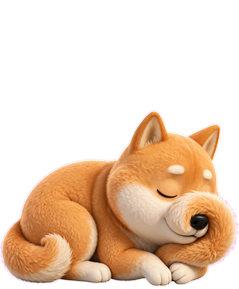
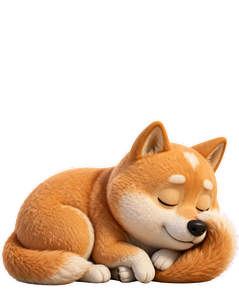
Kuma sleeps with one tail; fresh sniff and little-moments pictures
- Kuma's sleep pose had two tails (one at the rump, one over the nose): the
  sleep prompt and the style hint each asked for a curled tail. Re-drawn once
  with Muse Image from Kuma's own idle frame, asking for exactly one tail, then
  keyed and placed on the old canvas at the old width and floor line. The
  stored sleep prompt now says "exactly one tail" so a regen won't repeat it.
- docs/sniff.png: was a grey test capture of two copies of the same frame.
  Now a Terminal with the failing test highlighted and Pakkun saying
  "Found a bug!", drawn with his real bark sprite.
- docs/little-moments.png: was a dull, clipped strip. Now four tiles from
  Pakkun's real poses: hearts when petted, a line, a nap, a roll-over.
- Alt text updated on the site and README.

Changed region(s): [[0.0, 0.3737, 1.0, 0.9965]]

diff --git a/docs/index.html b/docs/index.html
@@ -316,7 +316,7 @@ footer .sleepy { width: 130px; margin: 0 auto 16px; }
       <div class="react reveal"><div class="ico">🙈</div><h3>Hides on calls</h3><p>Zoom or Meet window open? He tiptoes to the edge of the screen and waits until your call ends. A very professional pup.</p></div>
     </div>
     <div class="split" style="margin-top:64px; text-align:left">
-      <img class="shot reveal" src="sniff.png" alt="Pakkun under a terminal with a failing test, saying Found a bug!" loading="lazy">
+      <img class="shot reveal" src="sniff.png" alt="Pakkun next to a Terminal with a failing test highlighted, saying Found a bug!" loading="lazy">
       <div class="reveal">
         <h3 style="font-size:30px">"Found a bug!"</h3>
         <p class="lede" style="margin-top:12px">He reads only the front Terminal's text and the list of open windows. The one failing line is quoted to Muse Spark as data, never as instructions, and nothing is saved. API keys, tokens and secrets in it are blanked out on your Mac first. He sniffs test failures, tsc errors and rustc errors. Want to see his brain? "Show what Pakkun sees" opens a little card with his every decision.</p>
@@ -379,7 +379,7 @@ footer .sleepy { width: 130px; margin: 0 auto 16px; }
         <li><span>🖐</span>Drag him anywhere; he never steals a click from your work</li>
       </ul>
     </div>
-    <img class="shot reveal" src="little-moments.png" alt="Four Pakkun moments, including I love belly rubs the most!" loading="lazy">
+    <img class="shot reveal" src="little-moments.png" alt="Four Pakkun moments: hearts when you pet him, I love belly rubs the most!, a nap and a roll-over trick" loading="lazy">
   </div>
 </section>
 

diff --git a/README.md b/README.md
@@ -31,7 +31,7 @@ PixyPup puts a tiny, very good pup on your Mac. Meet **Pakkun**: he lives along 
 Then the magic part: **give him a photo of _your_ pet**, and about a minute and a half later your own dog or cat is the one trotting across your Mac.
 
 <div align="center">
-<img src="docs/little-moments.png" alt="Pakkun sitting, saying I love belly rubs the most!, and yawning" width="90%">
+<img src="docs/little-moments.png" alt="Four Pakkun moments: hearts when you pet him, I love belly rubs the most!, a nap and a roll-over trick" width="70%">
 </div>
 
 ## ✨ Features
@@ -59,7 +59,7 @@ Then the magic part: **give him a photo of _your_ pet**, and about a minute and 
 Mochi and Kuma were made by PixyPup's own pipeline from CC BY-SA 4.0 Wikimedia photos. Credits: [assets/pets/CREDITS.md](assets/pets/CREDITS.md).
 
 <div align="center">
-<img src="docs/sniff.png" alt="Pakkun finds a failing test in the terminal and says Found a bug!" width="70%">
+<img src="docs/sniff.png" alt="Pakkun next to a Terminal with a failing test highlighted, saying Found a bug!" width="80%">
 <br><sub>🐶 <i>"Found a bug!"</i></sub>
 </div>
 
